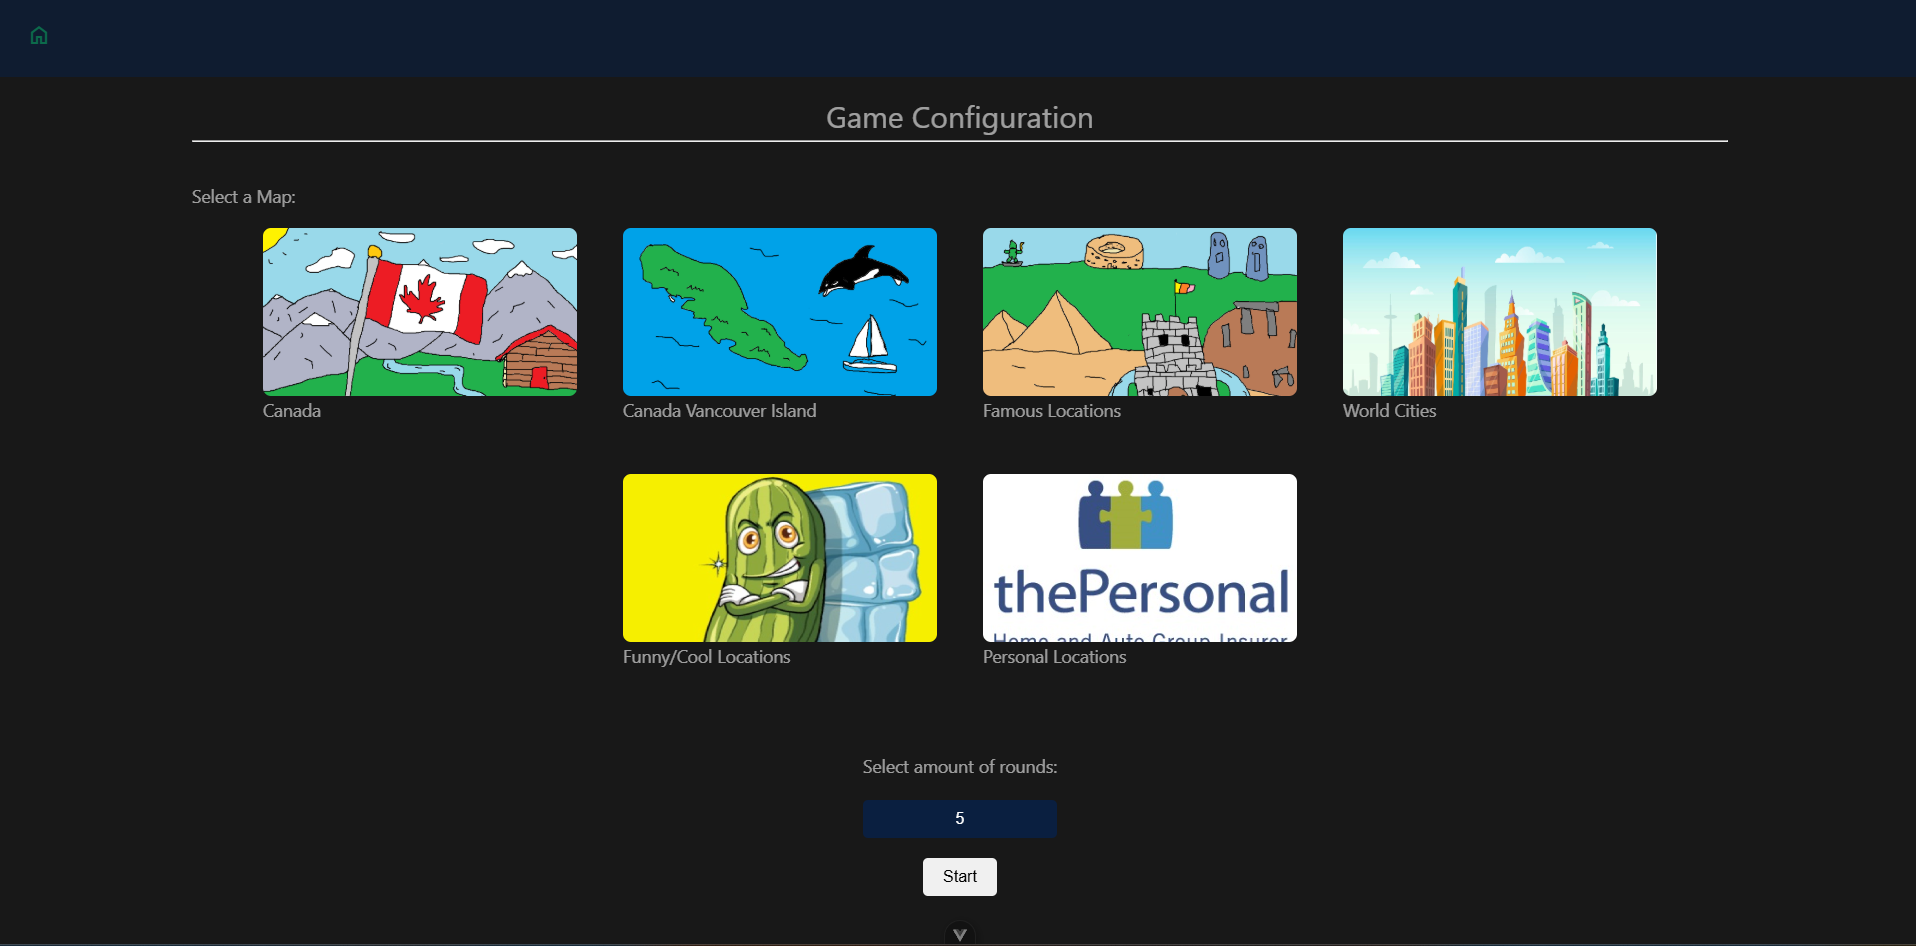
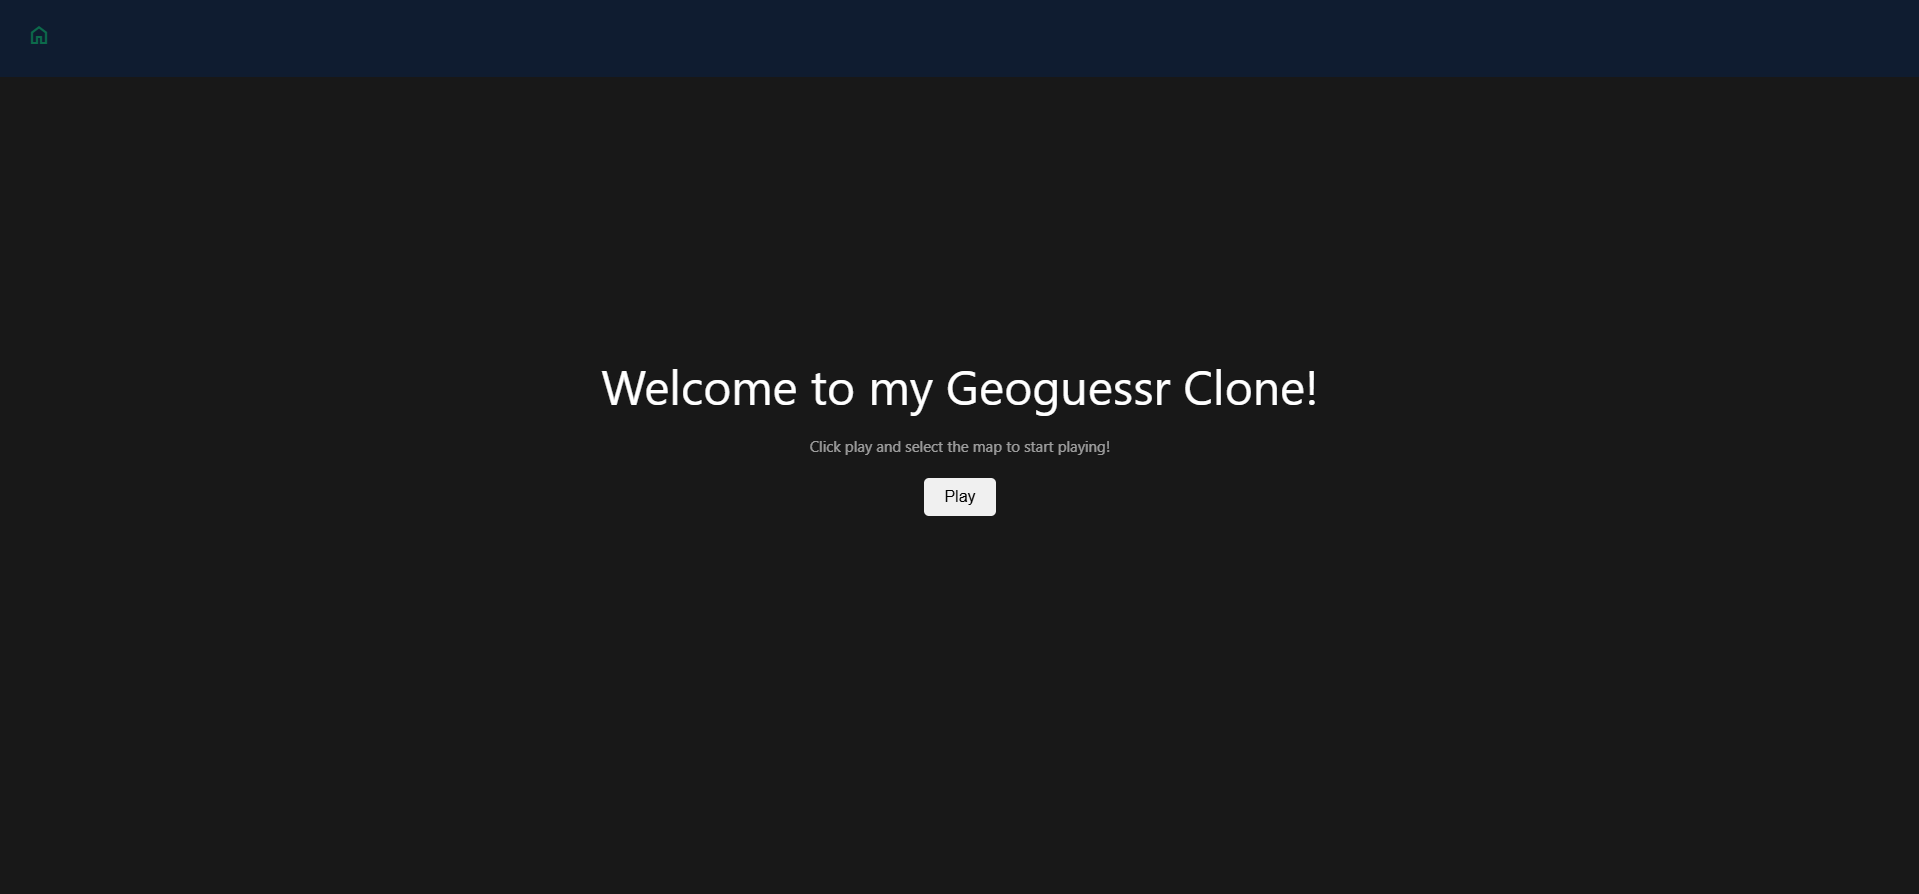
update projects

diff --git a/index.html b/index.html
@@ -91,19 +91,10 @@
             <ul id="project-list">
                 <li class="project-card zoom">
                     <a href="/projects/pizzaplace">
-                    <div class="card-text">
-                        <img class="card-img" src="images/pizza1.png">
-                        <h3>PIZZA PLACE</h3>
-                        <p>Pizza creator</p>
-                    </div>
-                </a>
-                </li>
-                <li class="project-card zoom">
-                    <a href="/projects/mediatracker">
                         <div class="card-text">
-                            <img class="card-img" src="images/MediaTracker.png">
-                            <h3>MediaTracker</h3>
-                            <p>Similar to LetterBoxd | WIP</p>
+                            <img class="card-img" src="images/pizza1.png">
+                            <h3>PIZZA PLACE</h3>
+                            <p>Pizza creator</p>
                         </div>
                     </a>
                 </li>
@@ -113,6 +104,15 @@
                             <img class="card-img" src="images/geoguessrclone1.png">
                             <h3>GeoGuessr Clone</h3>
                             <p>Play my take on Geoguessr</p>
+                        </div>
+                    </a>
+                </li>
+                <li class="project-card zoom">
+                    <a href="/projects/mediatracker">
+                        <div class="card-text">
+                            <img class="card-img" src="images/mediatracker1.png">
+                            <h3>MediaTracker</h3>
+                            <p>Similar to LetterBoxd | WIP</p>
                         </div>
                     </a>
                 </li>
